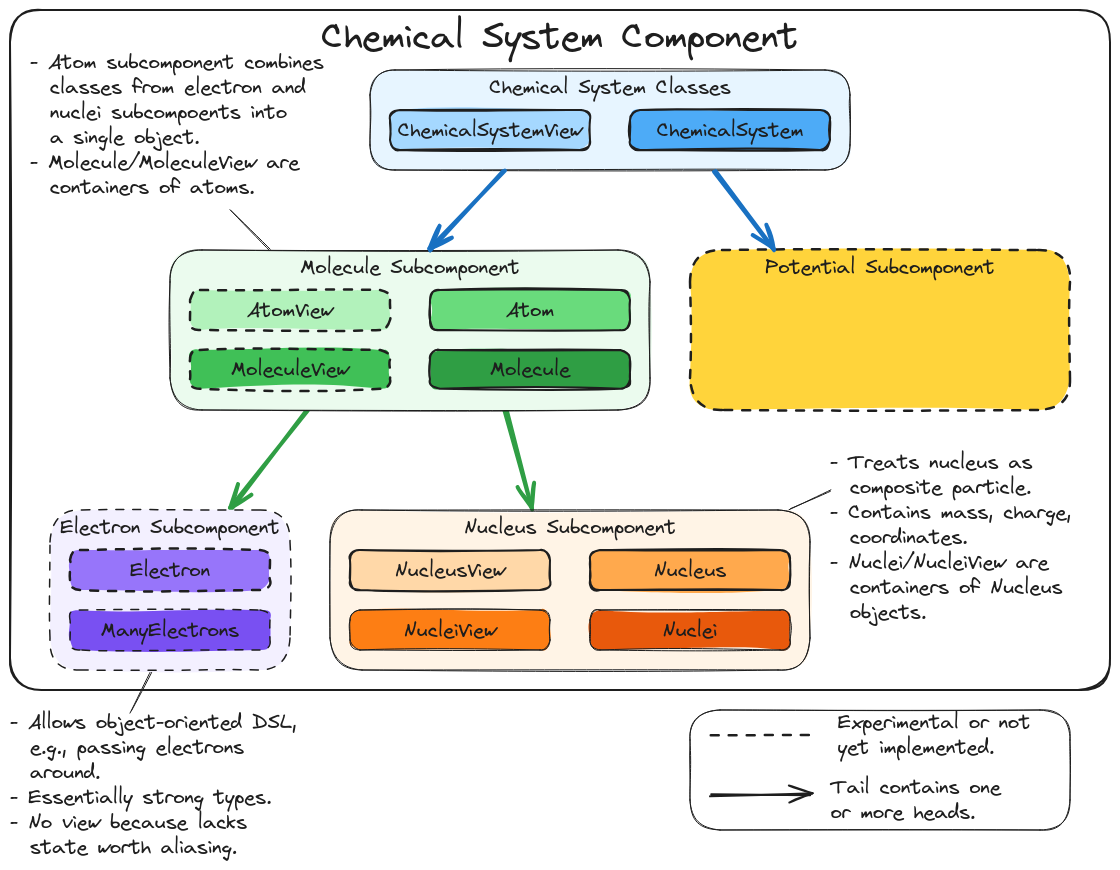
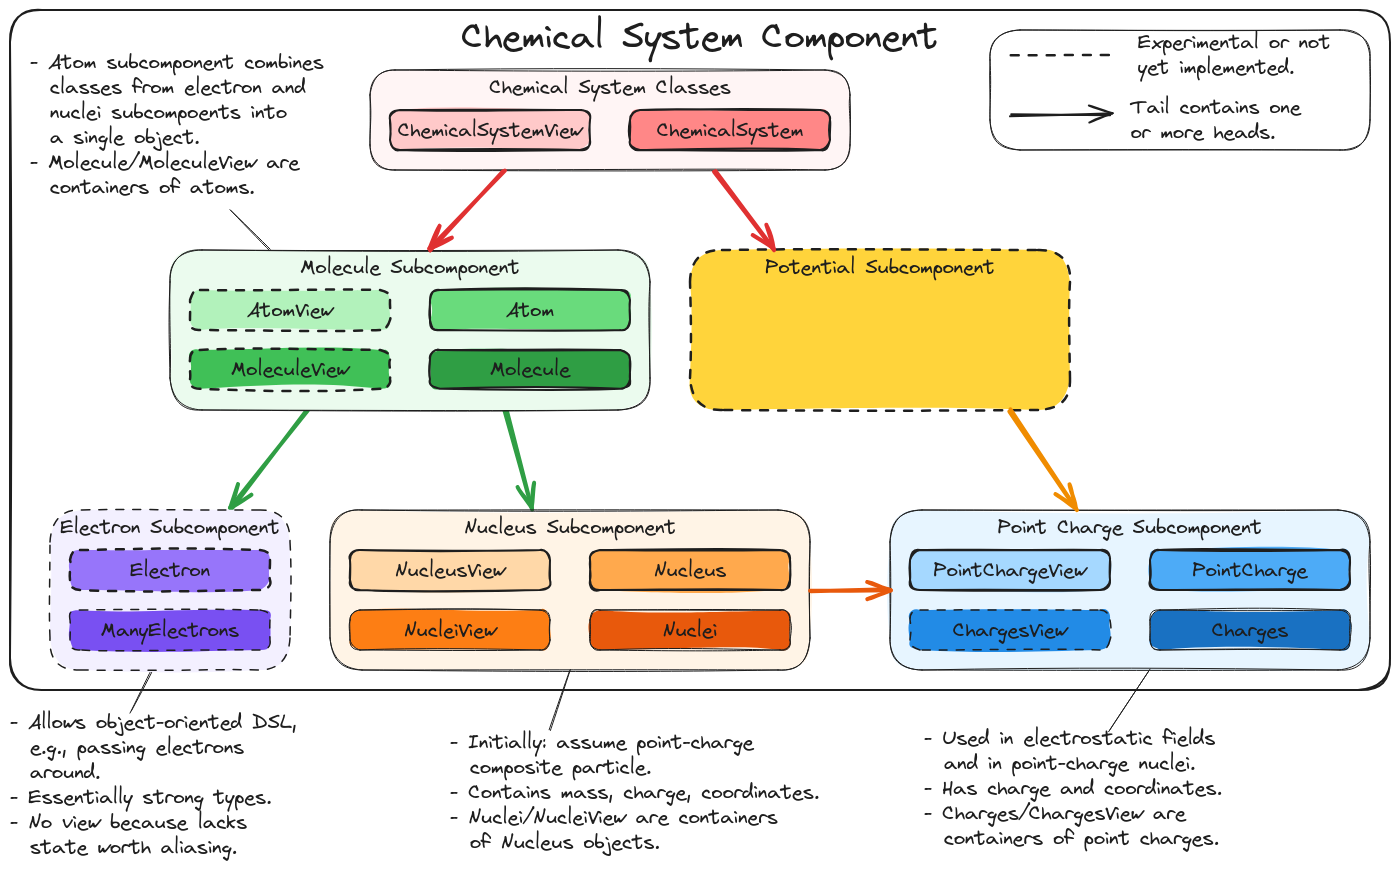
refactors point_charge [skip ci]

Changed region(s): [[0.0, 0.0, 1.0, 0.9931], [0.625, 0.8069, 0.9375, 0.9931], [0.3438, 0.8379, 0.5938, 0.9931]]

diff --git a/include/chemist/chemical_system/point_charge/point_charge.hpp b/include/chemist/chemical_system/point_charge/point_charge.hpp
@@ -1,5 +1,5 @@
 /*
- * Copyright 2023 NWChemEx-Project
+ * Copyright 2024 NWChemEx-Project
  *
  * Licensed under the Apache License, Version 2.0 (the "License");
  * you may not use this file except in compliance with the License.
@@ -15,13 +15,6 @@
  */
 
 #pragma once
-#include "../pychemist.hpp"
-#include <chemist/point_charge/point_charge.hpp>
-
-namespace chemist {
-
-void export_charge_view(python_module_reference m);
-void export_charges(python_module_reference m);
-void export_point_charge(python_module_reference m);
-
-} // namespace chemist
+#include <chemist/chemical_system/point_charge/charges.hpp>
+#include <chemist/chemical_system/point_charge/point_charge_class.hpp>
+#include <chemist/chemical_system/point_charge/point_charge_view.hpp>

diff --git a/src/python/chemical_system/point_charge/export_point_charge.hpp b/src/python/chemical_system/point_charge/export_point_charge.hpp
@@ -1,5 +1,5 @@
 /*
- * Copyright 2024 NWChemEx-Project
+ * Copyright 2023 NWChemEx-Project
  *
  * Licensed under the Apache License, Version 2.0 (the "License");
  * you may not use this file except in compliance with the License.
@@ -15,7 +15,13 @@
  */
 
 #pragma once
-#include <chemist/chemical_system/chemical_system_class.hpp>
-#include <chemist/chemical_system/molecule/molecule.hpp>
-#include <chemist/chemical_system/nucleus/nucleus.hpp>
+#include "../../pychemist.hpp"
 #include <chemist/chemical_system/point_charge/point_charge.hpp>
+
+namespace chemist {
+
+void export_charge_view(python_module_reference m);
+void export_charges(python_module_reference m);
+void export_point_charge(python_module_reference m);
+
+} // namespace chemist

diff --git a/src/python/module.cpp b/src/python/module.cpp
@@ -17,9 +17,7 @@
 #include "basis_set/export_basis_set.hpp"
 #include "chemical_system/export_chemical_system.hpp"
 #include "enums.hpp"
-
 #include "point/export_point.hpp"
-#include "point_charge/export_point_charge.hpp"
 #include "pychemist.hpp"
 
 namespace chemist {
@@ -39,7 +37,6 @@ PYBIND11_MODULE(chemist, m) {
 
     // Need to be exported in hierarchical order
     export_point(m);
-    export_point_charge(m);
 
     export_chemical_system(m);
 

diff --git a/src/python/chemical_system/export_chemical_system.hpp b/src/python/chemical_system/export_chemical_system.hpp
@@ -18,12 +18,14 @@
 #include "../pychemist.hpp"
 #include "molecule/export_molecule.hpp"
 #include "nucleus/export_nucleus.hpp"
+#include "point_charge/export_point_charge.hpp"
 #include <chemist/chemical_system/chemical_system.hpp>
 #include <pybind11/operators.h>
 
 namespace chemist {
 
 void inline export_chemical_system(python_module_reference m) {
+    export_point_charge(m);
     export_nucleus(m);
     export_molecule(m);
 

diff --git a/tests/cxx/unit_tests/chemical_system/point_charge/point_charge.cpp b/tests/cxx/unit_tests/chemical_system/point_charge/point_charge.cpp
@@ -14,9 +14,9 @@
  * limitations under the License.
  */
 
-#include "chemist/point_charge/point_charge.hpp"
 #include <catch2/catch.hpp>
 #include <cereal/archives/binary.hpp>
+#include <chemist/chemical_system/point_charge/point_charge_class.hpp>
 #include <sstream>
 
 TEMPLATE_TEST_CASE("PointCharge", "", double, float) {

diff --git a/include/chemist/chemical_system/nucleus/nucleus_view.hpp b/include/chemist/chemical_system/nucleus/nucleus_view.hpp
@@ -17,7 +17,7 @@
 #pragma once
 #include <chemist/chemical_system/nucleus/nucleus_class.hpp>
 #include <chemist/detail_/view/traits.hpp>
-#include <chemist/point_charge/point_charge_view.hpp>
+#include <chemist/chemical_system/point_charge/point_charge_view.hpp>
 #include <iomanip>
 #include <iostream>
 #include <limits>

diff --git a/include/chemist/chemical_system/point_charge/point_charge_view.hpp b/include/chemist/chemical_system/point_charge/point_charge_view.hpp
@@ -15,9 +15,9 @@
  */
 
 #pragma once
+#include <chemist/chemical_system/point_charge/point_charge_class.hpp>
 #include <chemist/detail_/view/traits.hpp>
 #include <chemist/point/point_view.hpp>
-#include <chemist/point_charge/point_charge.hpp>
 #include <type_traits>
 
 namespace chemist {

diff --git a/include/chemist/chemical_system/nucleus/nuclei.hpp b/include/chemist/chemical_system/nucleus/nuclei.hpp
@@ -16,7 +16,7 @@
 
 #pragma once
 #include <chemist/chemical_system/nucleus/nucleus_view.hpp>
-#include <chemist/point_charge/charges.hpp>
+#include <chemist/chemical_system/point_charge/charges.hpp>
 #include <utilities/containers/indexable_container_base.hpp>
 
 namespace chemist {

diff --git a/include/chemist/chemical_system/point_charge/charges.hpp b/include/chemist/chemical_system/point_charge/charges.hpp
@@ -16,7 +16,7 @@
 
 #pragma once
 #include <chemist/point/point_set.hpp>
-#include <chemist/point_charge/point_charge_view.hpp>
+#include <chemist/chemical_system/point_charge/point_charge_view.hpp>
 #include <utilities/containers/indexable_container_base.hpp>
 
 namespace chemist {

diff --git a/include/chemist/chemical_system/nucleus/nucleus_class.hpp b/include/chemist/chemical_system/nucleus/nucleus_class.hpp
@@ -16,7 +16,7 @@
 
 #pragma once
 #include <cereal/types/string.hpp>
-#include <chemist/point_charge/point_charge.hpp>
+#include <chemist/chemical_system/point_charge/point_charge_class.hpp>
 #include <iomanip>
 #include <iostream>
 #include <limits>

diff --git a/src/python/chemical_system/point_charge/export_charge_view.cpp b/src/python/chemical_system/point_charge/export_charge_view.cpp
@@ -15,7 +15,7 @@
  */
 
 #include "export_point_charge.hpp"
-#include <chemist/point_charge/point_charge_view.hpp>
+#include <chemist/chemical_system/point_charge/point_charge_view.hpp>
 #include <pybind11/operators.h>
 
 namespace chemist {

diff --git a/tests/cxx/unit_tests/chemical_system/point_charge/charges.cpp b/tests/cxx/unit_tests/chemical_system/point_charge/charges.cpp
@@ -16,7 +16,7 @@
 
 #include <catch2/catch.hpp>
 #include <cereal/archives/binary.hpp>
-#include <chemist/point_charge/charges.hpp>
+#include <chemist/chemical_system/point_charge/charges.hpp>
 #include <sstream>
 
 using namespace chemist;
